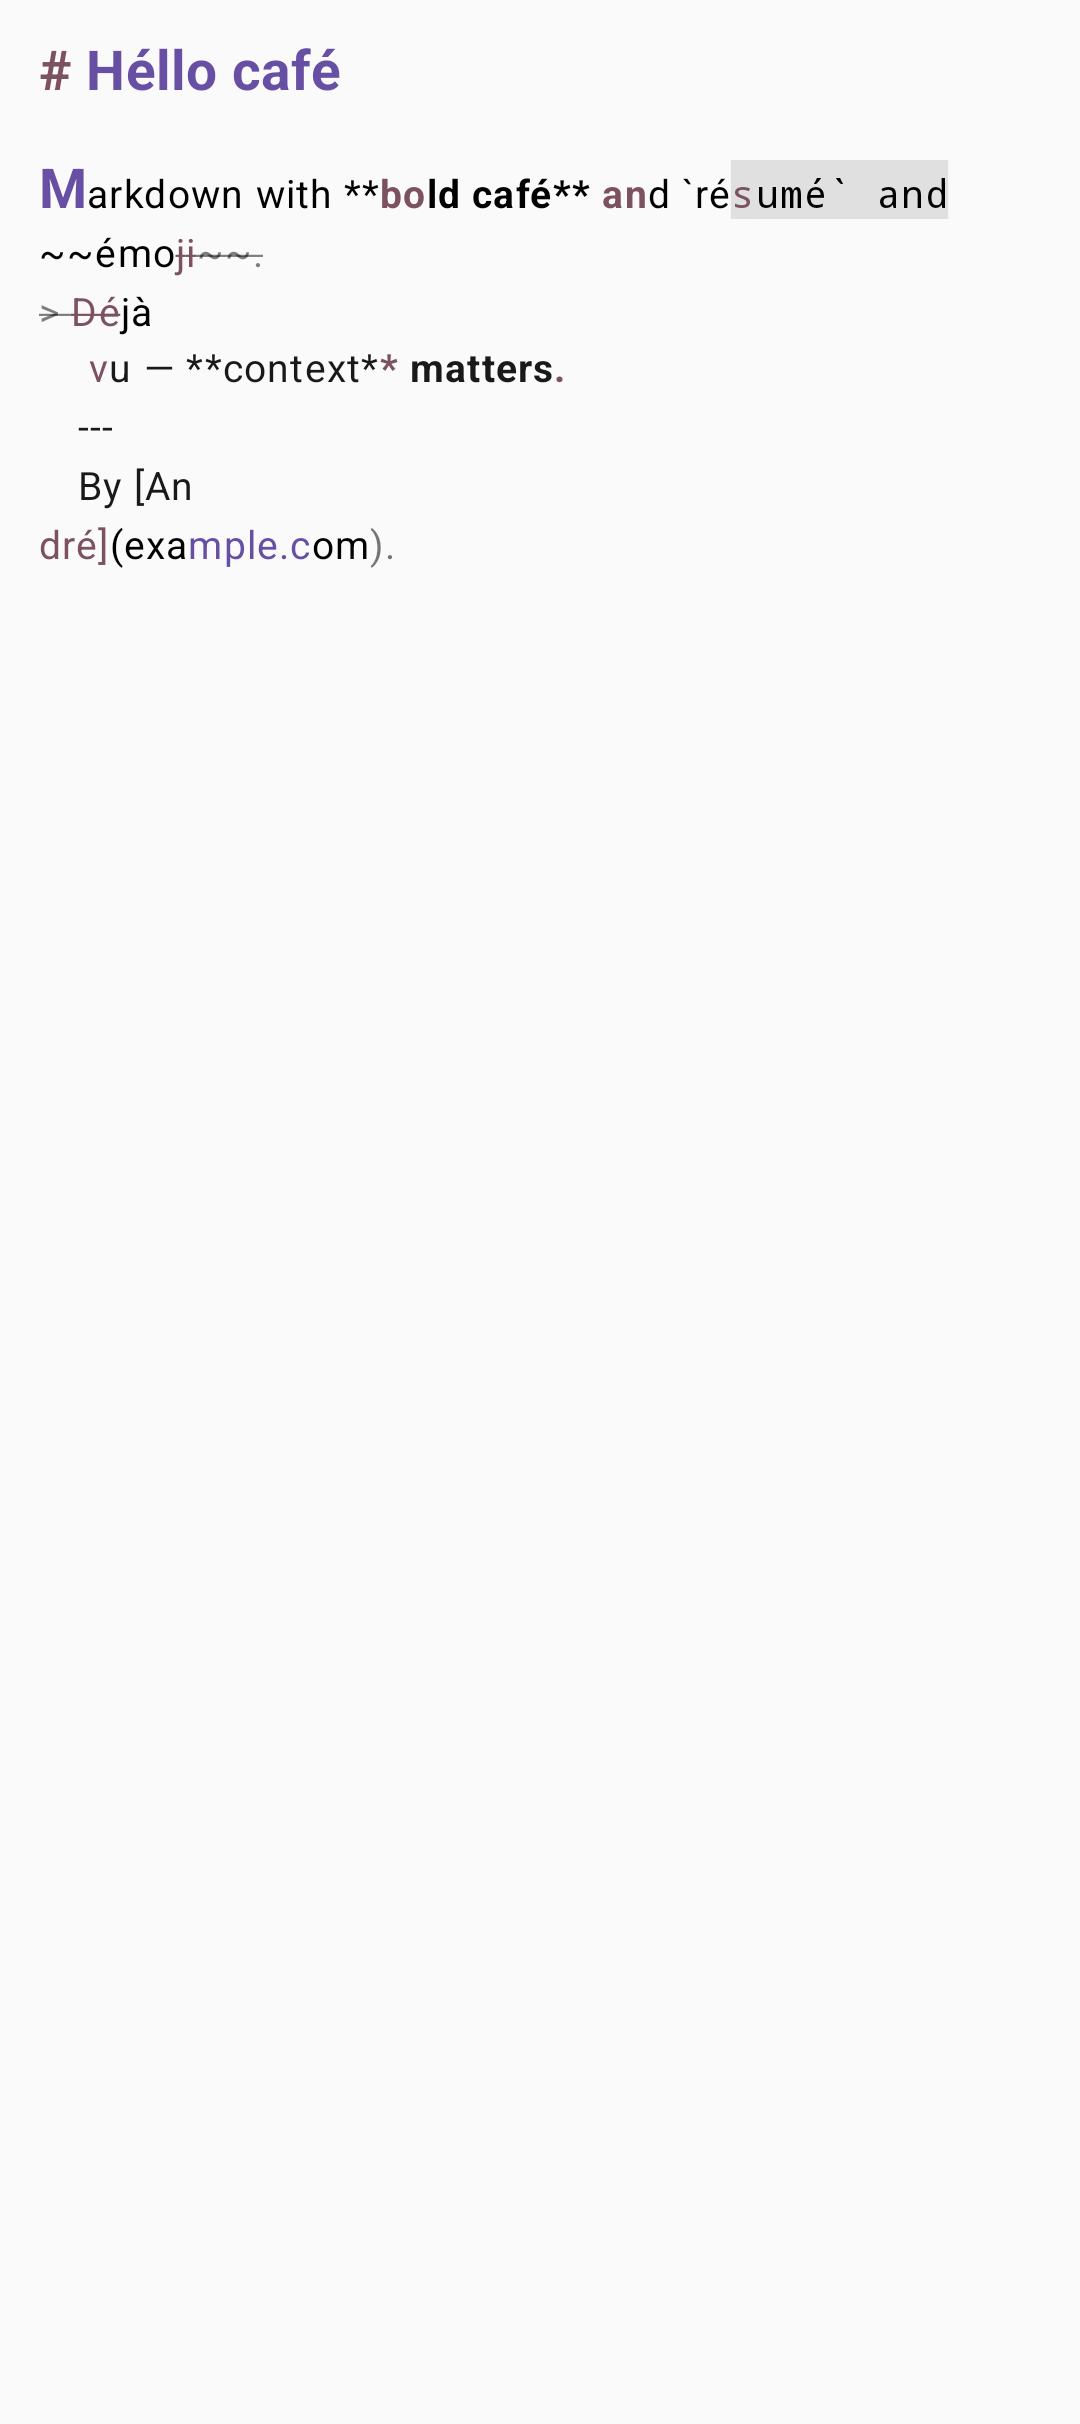
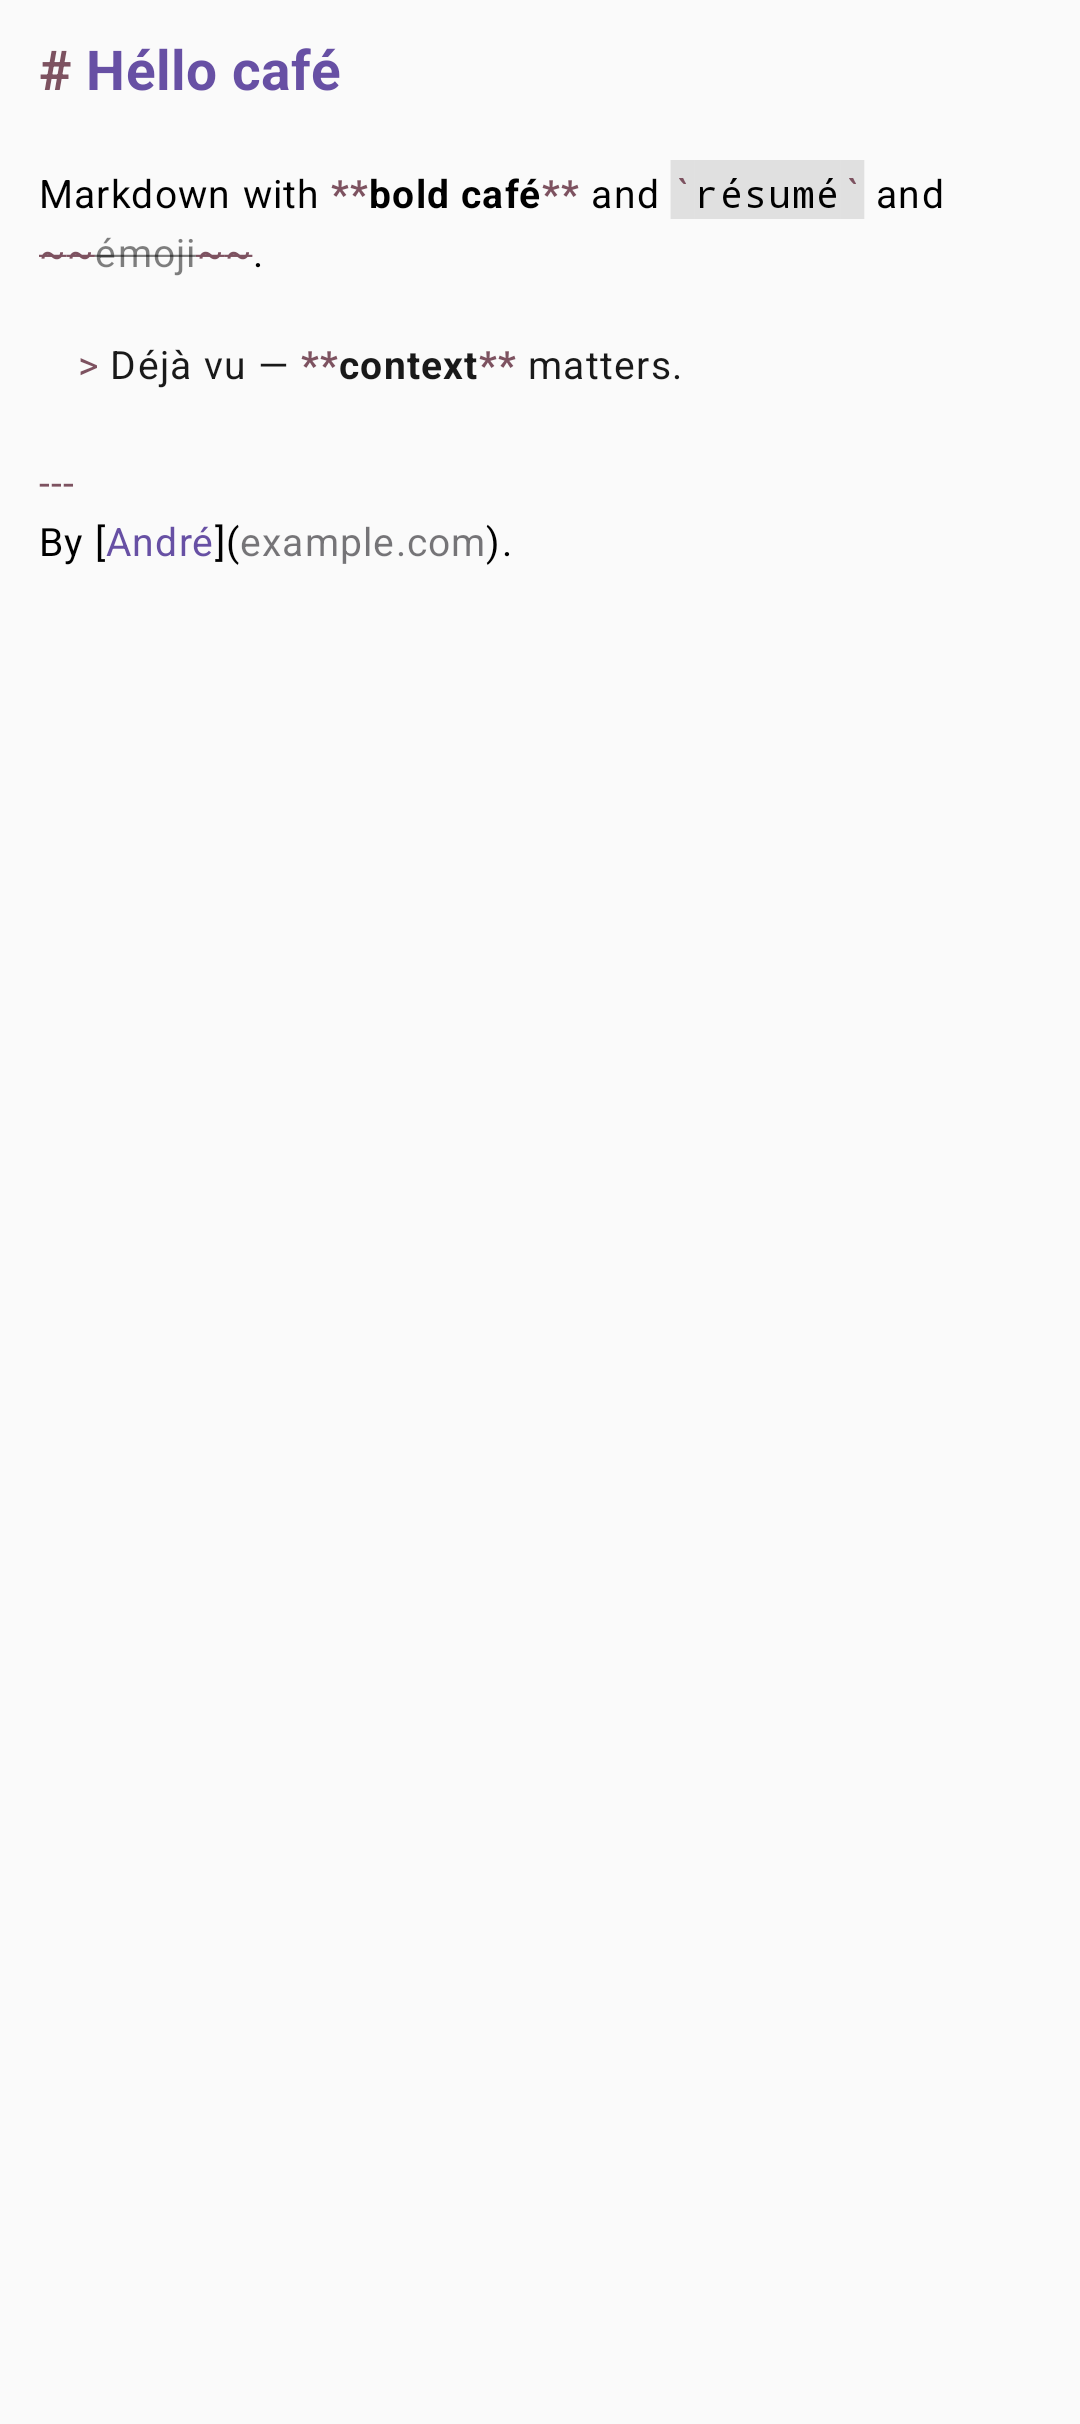
Convert tree-sitter byte offsets to UTF-16 char offsets

diff --git a/wysiwyg-parser-treesitter/src/androidMain/kotlin/me/saket/wysiwyg/parser/treesitter/TreeSitterMarkdownParser.kt b/wysiwyg-parser-treesitter/src/androidMain/kotlin/me/saket/wysiwyg/parser/treesitter/TreeSitterMarkdownParser.kt
@@ -26,6 +26,7 @@ import me.saket.wysiwyg.ThematicBreakSpanStyle
 import me.saket.wysiwyg.parser.ChangeListSnapshot
 import me.saket.wysiwyg.parser.MarkdownParser
 import me.saket.wysiwyg.parser.MarkdownParser.ParseResult
+import me.saket.wysiwyg.parser.treesitter.TreeSitterMarkdownParser.Companion.BlockQuery
 import me.saket.wysiwyg.parser.treesitter.grammar.TreeSitterMarkdown
 import me.saket.wysiwyg.parser.treesitter.grammar.TreeSitterMarkdownInline
 import kotlin.contracts.ExperimentalContracts
@@ -39,9 +40,6 @@ import kotlin.contracts.contract
  *   on every call, ignoring [ChangeListSnapshot]. A real incremental pipeline would apply
  *   edits via `tree.edit(InputEdit)`, re-parse with `oldTree`, then use
  *   `newTree.getChangedRanges(oldTree)` to scope span re-emission to just the changed regions.
- * - **UTF-8 vs UTF-16 offsets.** Tree-sitter byte offsets assume UTF-8. Compose's
- *   `AnnotatedString` uses UTF-16 char indices. Non-ASCII text will mis-align spans until
- *   a conversion layer is added.
  */
 class TreeSitterMarkdownParser : MarkdownParser {
   private val blockLanguage = Language(TreeSitterMarkdown.language())
@@ -57,16 +55,20 @@ class TreeSitterMarkdownParser : MarkdownParser {
       val spans = mutableListOf<MarkdownSpan>()
       val inlineRanges = mutableListOf<Range>()
 
-      val blockTree = blockParser.parse(text)
+      // Tree-sitter reports byte offsets (UTF-8), but spans get applied to Compose's
+      // AnnotatedString, which is indexed in UTF-16 char offsets. The table converts
+      // between the two.
+      val offsets = ByteToCharOffsets(text)
 
       // Use tree-sitter queries rather than a manual tree walk to minimize JNI boundary crossings.
       // The C engine pre-filters matching nodes and hands Kotlin one batch per capture.
+      val blockTree = blockParser.parse(text)
       blockQuery.matches(blockTree.rootNode).forEach { match ->
         match.captures.fastForEach { capture ->
           val node = capture.node
           val range = MarkdownSpanTextRange(
-            startIndex = node.startByte.toInt(),
-            endIndexExclusive = node.endByte.toInt(),
+            startIndex = offsets.byteToChar(node.startByte.toInt()),
+            endIndexExclusive = offsets.byteToChar(node.endByte.toInt()),
           )
           when (val name = capture.name) {
             "heading.1",
@@ -120,14 +122,16 @@ class TreeSitterMarkdownParser : MarkdownParser {
       // ranges are fed to [inlineParser] via [Parser.includedRanges], which then parses emphasis,
       // strong, links, code spans, and strikethroughs.
       if (inlineRanges.isNotEmpty()) {
+        // Note to self: inline parsing does not need UTF-8 -> UTF-16 conversion. tree-sitter's
+        // includedRanges API is UTF-8 native.
         inlineParser.includedRanges = inlineRanges
         val inlineTree = inlineParser.parse(text)
         inlineQuery.matches(inlineTree.rootNode).forEach { match ->
           match.captures.fastForEach { capture ->
             val node = capture.node
             val range = MarkdownSpanTextRange(
-              startIndex = node.startByte.toInt(),
-              endIndexExclusive = node.endByte.toInt(),
+              startIndex = offsets.byteToChar(node.startByte.toInt()),
+              endIndexExclusive = offsets.byteToChar(node.endByte.toInt()),
             )
             when (capture.name) {
               "emphasis" -> spans += MarkdownSpan(ItalicSpanStyle, range)

diff --git a/wysiwyg-parser-treesitter/src/androidMain/kotlin/me/saket/wysiwyg/parser/treesitter/ByteToCharOffsets.kt b/wysiwyg-parser-treesitter/src/androidMain/kotlin/me/saket/wysiwyg/parser/treesitter/ByteToCharOffsets.kt
@@ -1,0 +1,54 @@
+package me.saket.wysiwyg.parser.treesitter
+
+import de.cketti.codepoints.deluxe.CodePoint
+import de.cketti.codepoints.deluxe.codePointSequence
+
+/**
+ * Pre-computed byte → char offset table for converting tree-sitter's UTF-8 byte offsets
+ * into Kotlin `String` / Compose `AnnotatedString` UTF-16 char offsets.
+ *
+ * Tree-sitter only reports byte offsets at codepoint boundaries (the grammar never splits
+ * a multi-byte character), so intermediate bytes inside a multi-byte codepoint don't need
+ * unique entries, the table simply repeats the preceding codepoint's char index for them,
+ * which also gives a graceful fallback if an unexpected offset lands mid-codepoint.
+ */
+internal class ByteToCharOffsets(text: String) {
+  // null when [text] is pure ASCII.
+  private val table: IntArray?
+
+  init {
+    val utf8Length = text.codePointSequence().sumOf { it.utf8ByteLength() }
+    if (utf8Length == text.length) {
+      table = null
+    } else {
+      val built = IntArray(utf8Length + 1)
+      var byteIndex = 0
+      var charIndex = 0
+      for (codePoint in text.codePointSequence()) {
+        val byteLength = codePoint.utf8ByteLength()
+        built.fill(charIndex, fromIndex = byteIndex, toIndex = byteIndex + byteLength)
+        byteIndex += byteLength
+        charIndex += codePoint.charCount
+      }
+      built[byteIndex] = charIndex
+      table = built
+    }
+  }
+
+  fun byteToChar(byteOffset: Int): Int =
+    table?.get(byteOffset) ?: byteOffset
+}
+
+/**
+ * UTF-8 byte length of a single Unicode codepoint, per RFC 3629.
+ *  - `U+0000..U+007F`    → 1 byte (ASCII)
+ *  - `U+0080..U+07FF`    → 2 bytes
+ *  - `U+0800..U+FFFF`    → 3 bytes (rest of BMP)
+ *  - `U+10000..U+10FFFF` → 4 bytes (supplementary planes)
+ */
+private fun CodePoint.utf8ByteLength(): Int = when {
+  isSupplementary -> 4
+  value < 0x80 -> 1
+  value < 0x800 -> 2
+  else -> 3
+}
